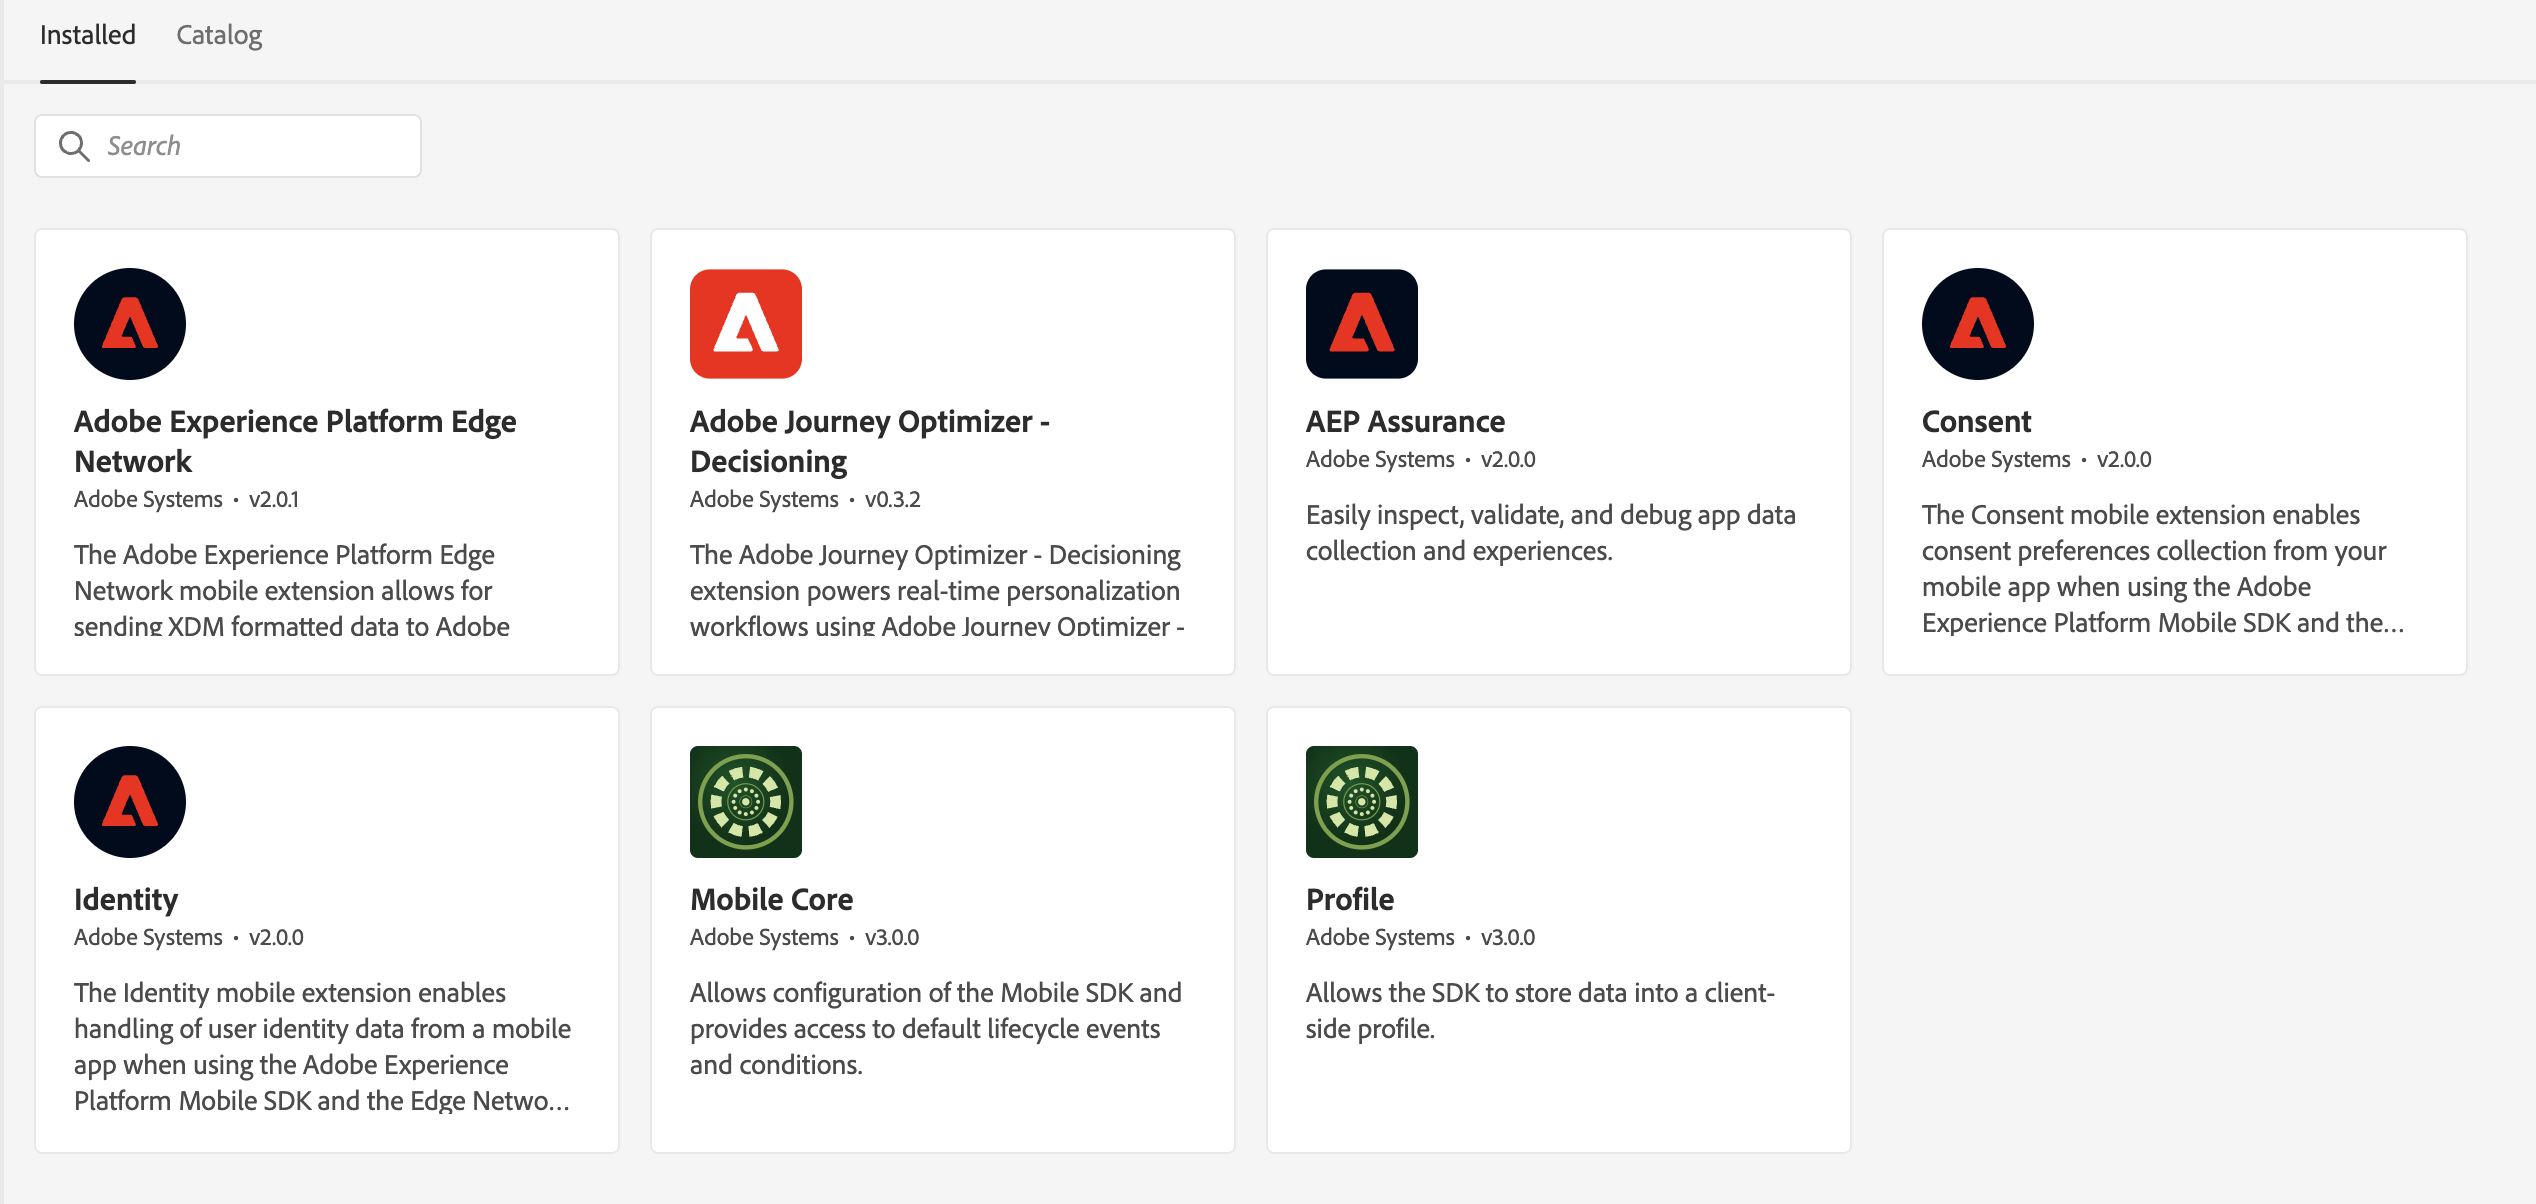
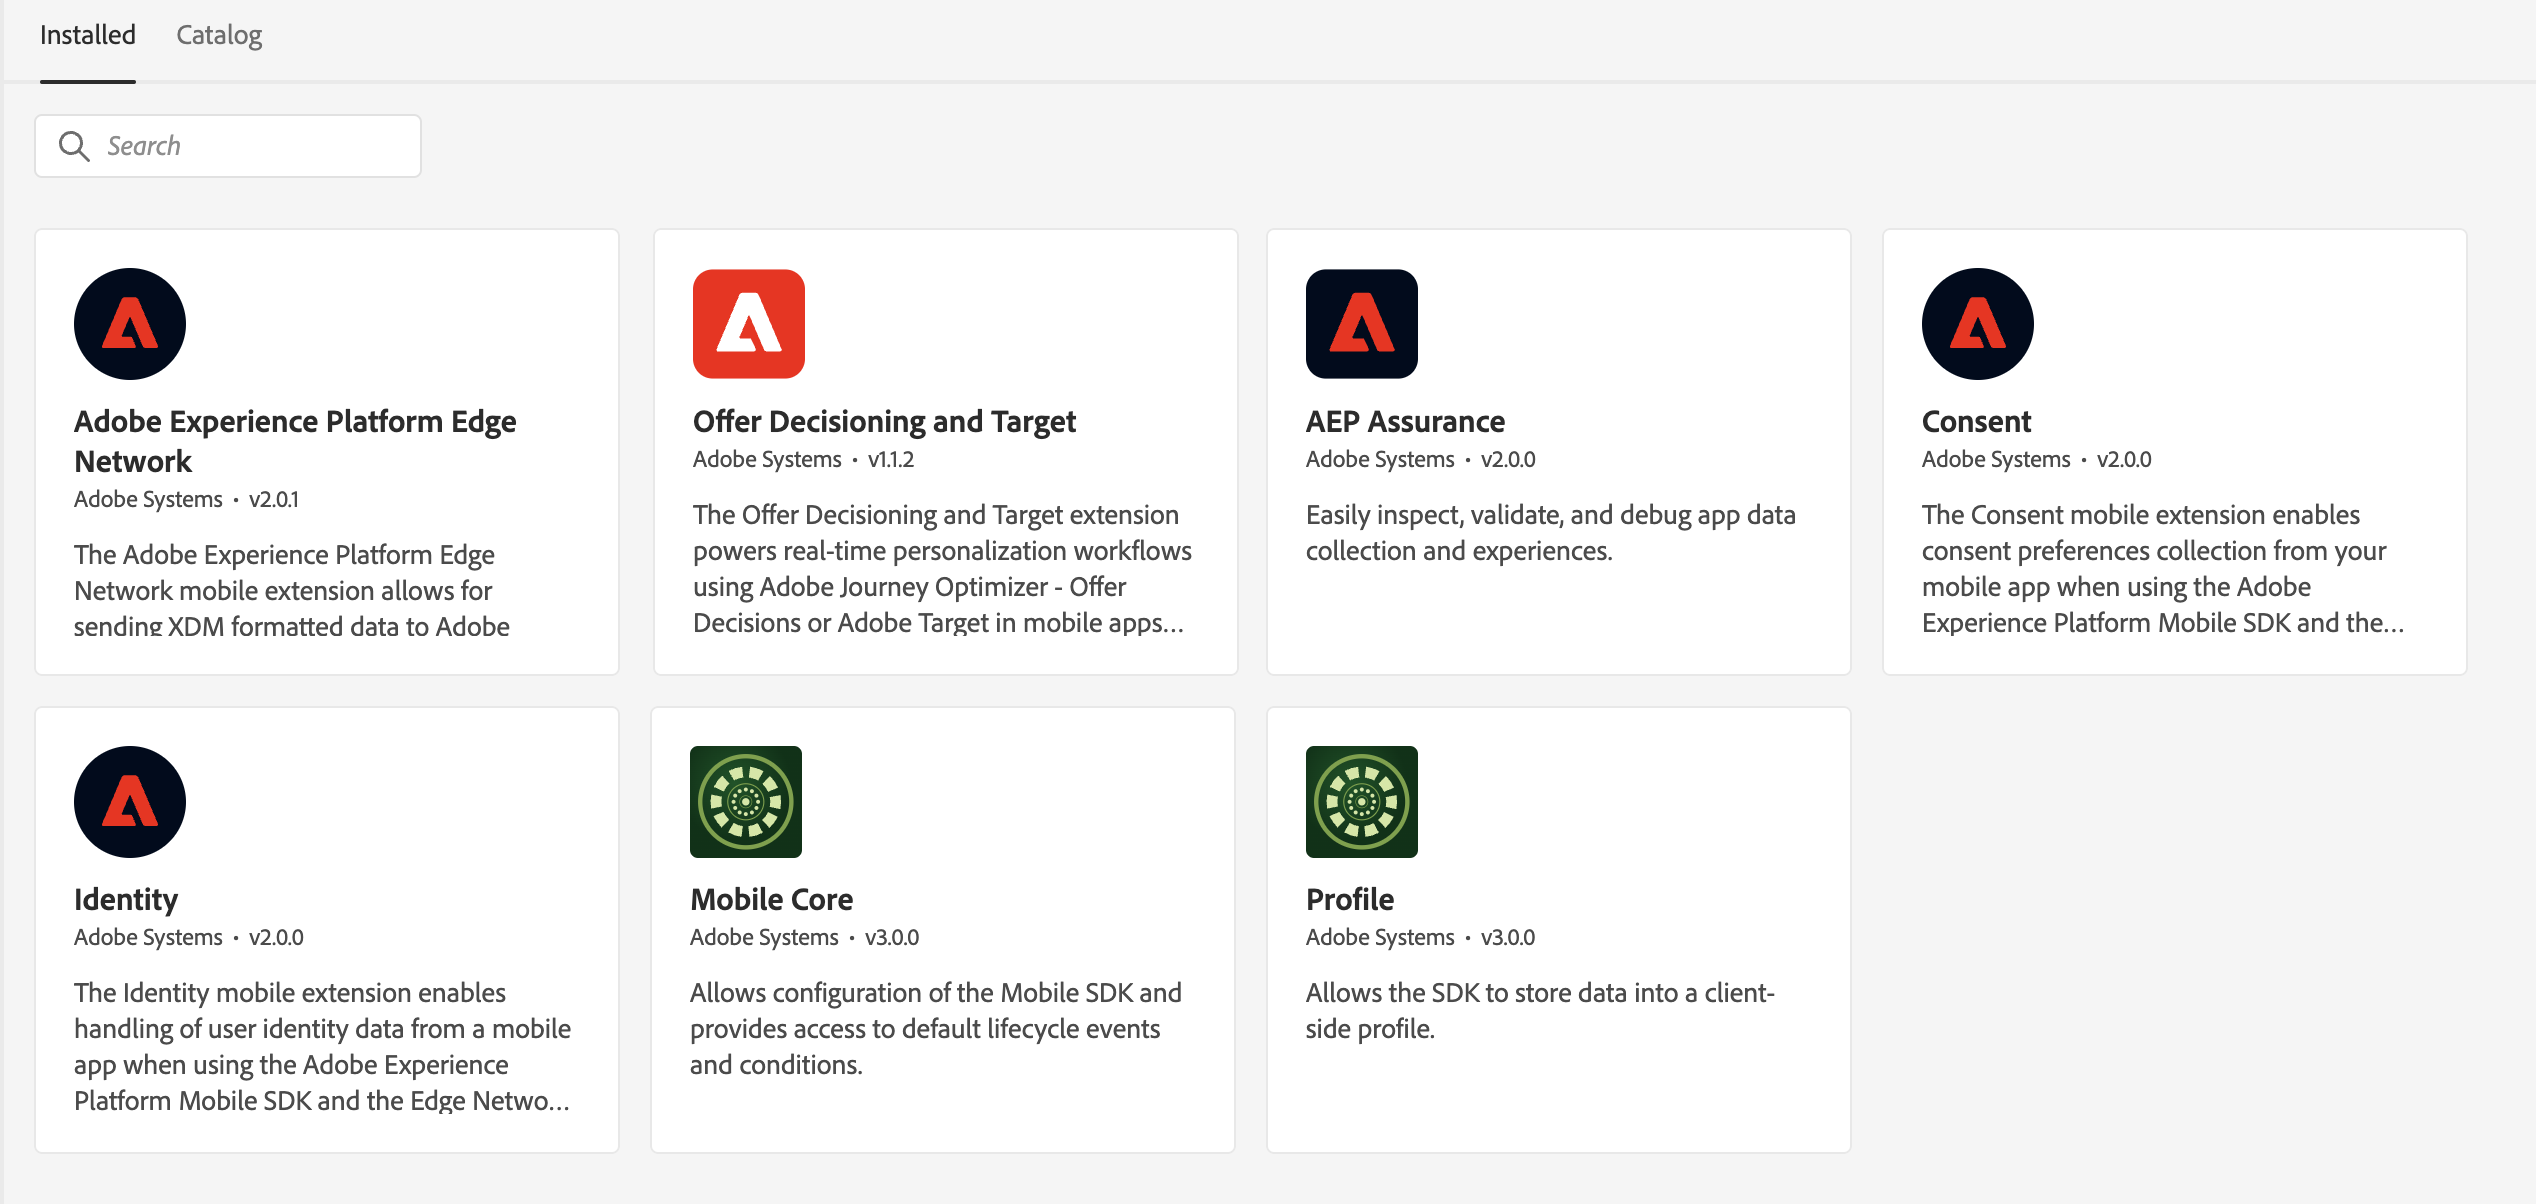
updates from AJO - Decisioning to Offer Decisioning and Target

Changed region(s): [[0.2492, 0.338, 0.4673, 0.5532], [0.2804, 0.2458, 0.3115, 0.2766]]

diff --git a/help/tutorial-mobile-sdk/target.md b/help/tutorial-mobile-sdk/target.md
@@ -108,7 +108,7 @@ To ensure data send from your mobile app to the Edge Network is forwarded to Jou
 To validate your setup in Assurance:
 
 1. Go to the Assurance UI.
-1. Select **[!UICONTROL Configure]** in left rail and select ![Add](https://spectrum.adobe.com/static/icons/workflow_18/Smock_AddCircle_18_N.svg) next to **[!UICONTROL Validate Setup]** underneath **[!UICONTROL ADOBE JOURNEY OPTIMIZER DECISIONING]**.
+1. Select **[!UICONTROL Configure]** in left rail and select ![Add](https://spectrum.adobe.com/static/icons/workflow_18/Smock_AddCircle_18_N.svg) next to **[!UICONTROL Validate Setup]** underneath **[!UICONTROL OFFER DECISIONING AND TARGET]**.
 1. Select **[!UICONTROL Save]**.
 1. Select **[!UICONTROL Validate Setup]** in the left rail. Both datastream setup is validated and the SDK setup in your application.
    ![AJO Decisioning validation](assets/ajo-decisioning-validation.png) 
@@ -273,7 +273,7 @@ You can send additional Target parameters (like mbox, profile, product, or order
 To validate the A/B test in Assurance:
 
 1. Review the [setup instructions](assurance.md#connecting-to-a-session) section to connect your simulator or device to Assurance.
-1. Select **[!UICONTROL Configure]** in left rail and select ![Add](https://spectrum.adobe.com/static/icons/workflow_18/Smock_AddCircle_18_N.svg) next to **[!UICONTROL Review & Simulate]** underneath **[!UICONTROL ADOBE JOURNEY OPTIMIZER DECISIONING]**.
+1. Select **[!UICONTROL Configure]** in left rail and select ![Add](https://spectrum.adobe.com/static/icons/workflow_18/Smock_AddCircle_18_N.svg) next to **[!UICONTROL Review & Simulate]** underneath **[!UICONTROL OFFER DECSIONING AND TARGET]**.
 1. Select **[!UICONTROL Save]**.
 1. Select **[!UICONTROL Review & Simulate]** in the left rail. Both datastream setup is validated and the SDK setup in your application.
 1. Select **[!UICONTROL Requests]** at the top bar. You see your **[!DNL Target]** requests.
@@ -287,7 +287,7 @@ You should now have all the tools to start adding more A/B tests or other Target
 
 >[!SUCCESS]
 >
->You have enabled the app for A/B tests and displayed the results of an A/B test with Adobe Target and the Offer Decisioning and Target extension for the Adobe Experience Platform Mobile SDK.
+>You have enabled the app for A/B tests and displayed the results of an A/B test with the Offer Decisioning and Target extension for the Adobe Experience Platform Mobile SDK.
 >
 >Thank you for investing your time in learning about Adobe Experience Platform Mobile SDK. If you have questions, want to share general feedback, or have suggestions on future content, share them on this [Experience League Community discussion post](https://experienceleaguecommunities.adobe.com/t5/adobe-experience-platform-data/tutorial-discussion-implement-adobe-experience-cloud-in-mobile/td-p/443796).
 

diff --git a/help/tutorial-mobile-sdk/journey-optimizer-offers.md b/help/tutorial-mobile-sdk/journey-optimizer-offers.md
@@ -92,7 +92,7 @@ To ensure data sent from your mobile app to Platform Edge Network is forwarded t
 To validate your setup in Assurance:
 
 1. Go to the Assurance UI.
-1. Select **[!UICONTROL Configure]** in left rail and select ![Add](https://spectrum.adobe.com/static/icons/workflow_18/Smock_AddCircle_18_N.svg) next to **[!UICONTROL Validate Setup]** underneath **[!UICONTROL ADOBE JOURNEY OPTIMIZER DECISIONING]**.
+1. Select **[!UICONTROL Configure]** in left rail and select ![Add](https://spectrum.adobe.com/static/icons/workflow_18/Smock_AddCircle_18_N.svg) next to **[!UICONTROL Validate Setup]** underneath **[!UICONTROL OFFER DECISIONING AND TARGET]**.
 1. Select **[!UICONTROL Save]**.
 1. Select **[!UICONTROL Validate Setup]** in the left rail. Both datastream setup and the SDK setup in your application are validated.
    ![AJO Decisioning validation](assets/ajo-decisioning-validation.png)
